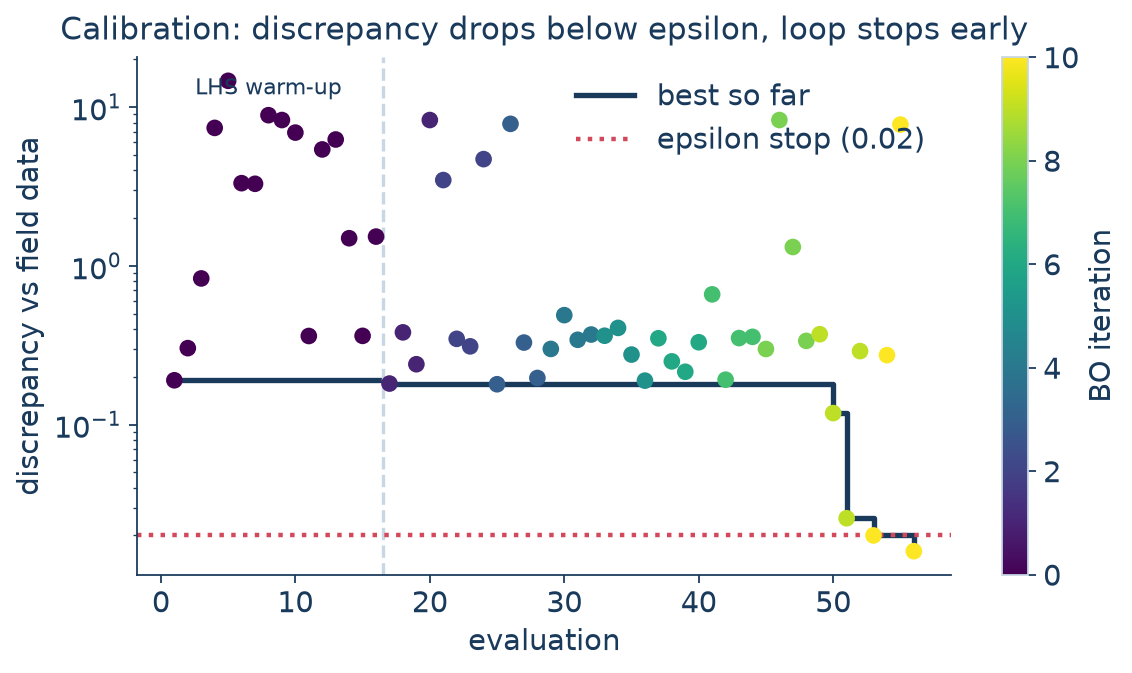
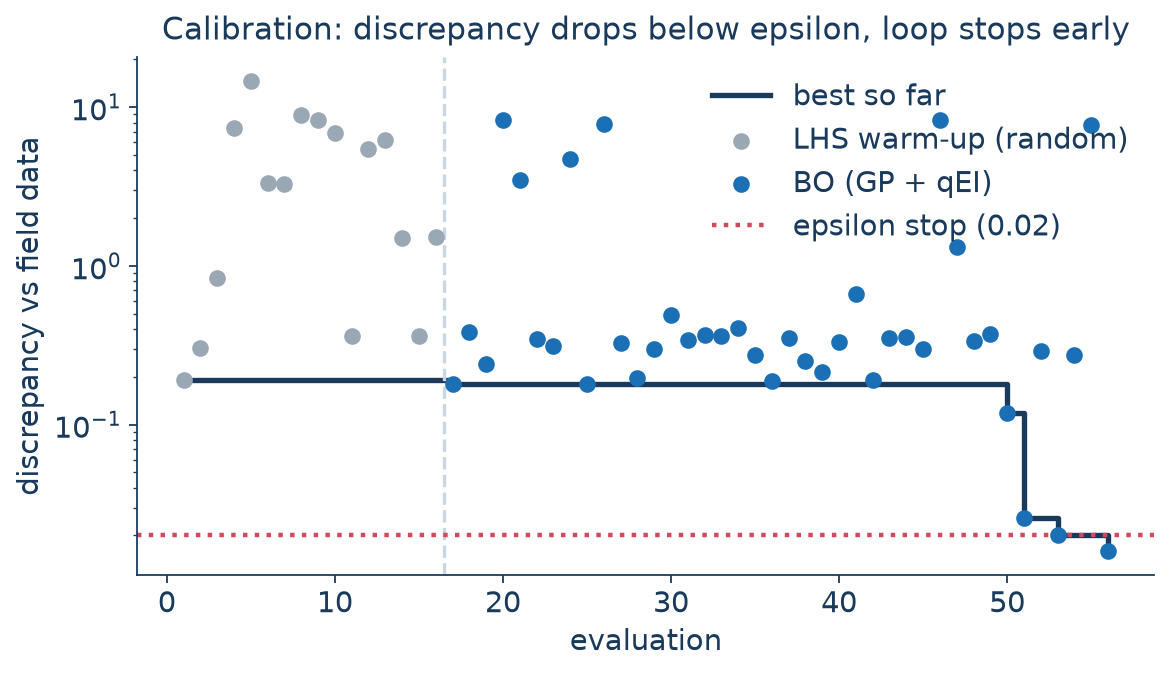
Built site for gh-pages

diff --git a/index.html b/index.html
@@ -10,7 +10,7 @@
   <meta name="generator" content="quarto-1.8.27">
 
   <meta name="author" content="Vadim Sokolov at George Mason University">
-  <meta name="dcterms.date" content="2026-06-16">
+  <meta name="dcterms.date" content="2026-06-17">
   <title>PolarisOpt</title>
   <meta name="apple-mobile-web-app-capable" content="yes">
   <meta name="apple-mobile-web-app-status-bar-style" content="black-translucent">
@@ -209,7 +209,7 @@ Vadim Sokolov at George Mason University
 </div>
 </div>
 
-  <p class="date">2026-06-16</p>
+  <p class="date">2026-06-17</p>
 </section>
 <section id="the-setting" class="slide level2 smaller">
 <h2>The setting</h2>
@@ -322,7 +322,8 @@ Vadim Sokolov at George Mason University
 <span id="cb2-3"><a href="" aria-hidden="true" tabindex="-1"></a><span class="ex">polarisopt</span> run      study.yaml     <span class="co"># submit + poll the whole study</span></span>
 <span id="cb2-4"><a href="" aria-hidden="true" tabindex="-1"></a><span class="ex">polarisopt</span> status   study.yaml <span class="at">-v</span>  <span class="co"># per-sample table: jobid, runtime, last log line</span></span>
 <span id="cb2-5"><a href="" aria-hidden="true" tabindex="-1"></a><span class="ex">polarisopt</span> resume   study.yaml     <span class="co"># pick up an interrupted run</span></span>
-<span id="cb2-6"><a href="" aria-hidden="true" tabindex="-1"></a><span class="ex">polarisopt</span> retry-failed study.yaml <span class="at">--run</span></span></code></pre></div><button title="Copy to Clipboard" class="code-copy-button"><i class="bi"></i></button></div>
+<span id="cb2-6"><a href="" aria-hidden="true" tabindex="-1"></a><span class="ex">polarisopt</span> best     study.yaml     <span class="co"># winning sample's inputs + metric (--json to pipe)</span></span>
+<span id="cb2-7"><a href="" aria-hidden="true" tabindex="-1"></a><span class="ex">polarisopt</span> retry-failed study.yaml <span class="at">--run</span></span></code></pre></div><button title="Copy to Clipboard" class="code-copy-button"><i class="bi"></i></button></div>
 <div class="fragment">
 <p><code>validate</code> and <code>plan</code> catch the typo class — a wrong plugin name, an option that isn’t in the constructor — in <strong>one second</strong>, instead of after a 30-second stage in a real run.</p>
 </div>
@@ -713,7 +714,7 @@ Vadim Sokolov at George Mason University
 <div class="columns">
 <div class="column" style="width:50%;">
 <ul>
-<li><strong>Resume</strong> — <code>Ctrl-C</code> the master, <code>polarisopt resume</code>; RNG + surrogate restored from the store.</li>
+<li><strong>Resume</strong> — <code>Ctrl-C</code> the master, <code>polarisopt resume</code>; RNG + surrogate restored, and on-disk results are harvested even if Slurm’s status went stale (v0.11).</li>
 <li><strong>retry-failed</strong> — flip crashed samples back to PENDING, re-run.</li>
 <li><strong>plan / validate</strong> — catch errors before burning node-hours.</li>
 </ul>
@@ -725,7 +726,7 @@ Vadim Sokolov at George Mason University
 </ul>
 </div></div>
 <div class="fragment">
-<p>Battle-tested on live POLARIS calibration since <strong>v0.6 (May 2026)</strong>; additive, no breaking changes through <strong>v0.10</strong>.</p>
+<p>Battle-tested on live POLARIS calibration since <strong>v0.6 (May 2026)</strong>; additive, no breaking changes through <strong>v0.11</strong>.</p>
 </div>
 </section>
 <section id="getting-started" class="slide level2 smaller">

diff --git a/pug-2026.html b/pug-2026.html
@@ -10,7 +10,7 @@
   <meta name="generator" content="quarto-1.8.27">
 
   <meta name="author" content="Vadim Sokolov at George Mason University">
-  <meta name="dcterms.date" content="2026-06-16">
+  <meta name="dcterms.date" content="2026-06-17">
   <title>PolarisOpt</title>
   <meta name="apple-mobile-web-app-capable" content="yes">
   <meta name="apple-mobile-web-app-status-bar-style" content="black-translucent">
@@ -209,7 +209,7 @@ Vadim Sokolov at George Mason University
 </div>
 </div>
 
-  <p class="date">2026-06-16</p>
+  <p class="date">2026-06-17</p>
 </section>
 <section id="the-setting" class="slide level2 smaller">
 <h2>The setting</h2>
@@ -322,7 +322,8 @@ Vadim Sokolov at George Mason University
 <span id="cb2-3"><a href="" aria-hidden="true" tabindex="-1"></a><span class="ex">polarisopt</span> run      study.yaml     <span class="co"># submit + poll the whole study</span></span>
 <span id="cb2-4"><a href="" aria-hidden="true" tabindex="-1"></a><span class="ex">polarisopt</span> status   study.yaml <span class="at">-v</span>  <span class="co"># per-sample table: jobid, runtime, last log line</span></span>
 <span id="cb2-5"><a href="" aria-hidden="true" tabindex="-1"></a><span class="ex">polarisopt</span> resume   study.yaml     <span class="co"># pick up an interrupted run</span></span>
-<span id="cb2-6"><a href="" aria-hidden="true" tabindex="-1"></a><span class="ex">polarisopt</span> retry-failed study.yaml <span class="at">--run</span></span></code></pre></div><button title="Copy to Clipboard" class="code-copy-button"><i class="bi"></i></button></div>
+<span id="cb2-6"><a href="" aria-hidden="true" tabindex="-1"></a><span class="ex">polarisopt</span> best     study.yaml     <span class="co"># winning sample's inputs + metric (--json to pipe)</span></span>
+<span id="cb2-7"><a href="" aria-hidden="true" tabindex="-1"></a><span class="ex">polarisopt</span> retry-failed study.yaml <span class="at">--run</span></span></code></pre></div><button title="Copy to Clipboard" class="code-copy-button"><i class="bi"></i></button></div>
 <div class="fragment">
 <p><code>validate</code> and <code>plan</code> catch the typo class — a wrong plugin name, an option that isn’t in the constructor — in <strong>one second</strong>, instead of after a 30-second stage in a real run.</p>
 </div>
@@ -713,7 +714,7 @@ Vadim Sokolov at George Mason University
 <div class="columns">
 <div class="column" style="width:50%;">
 <ul>
-<li><strong>Resume</strong> — <code>Ctrl-C</code> the master, <code>polarisopt resume</code>; RNG + surrogate restored from the store.</li>
+<li><strong>Resume</strong> — <code>Ctrl-C</code> the master, <code>polarisopt resume</code>; RNG + surrogate restored, and on-disk results are harvested even if Slurm’s status went stale (v0.11).</li>
 <li><strong>retry-failed</strong> — flip crashed samples back to PENDING, re-run.</li>
 <li><strong>plan / validate</strong> — catch errors before burning node-hours.</li>
 </ul>
@@ -725,7 +726,7 @@ Vadim Sokolov at George Mason University
 </ul>
 </div></div>
 <div class="fragment">
-<p>Battle-tested on live POLARIS calibration since <strong>v0.6 (May 2026)</strong>; additive, no breaking changes through <strong>v0.10</strong>.</p>
+<p>Battle-tested on live POLARIS calibration since <strong>v0.6 (May 2026)</strong>; additive, no breaking changes through <strong>v0.11</strong>.</p>
 </div>
 </section>
 <section id="getting-started" class="slide level2 smaller">